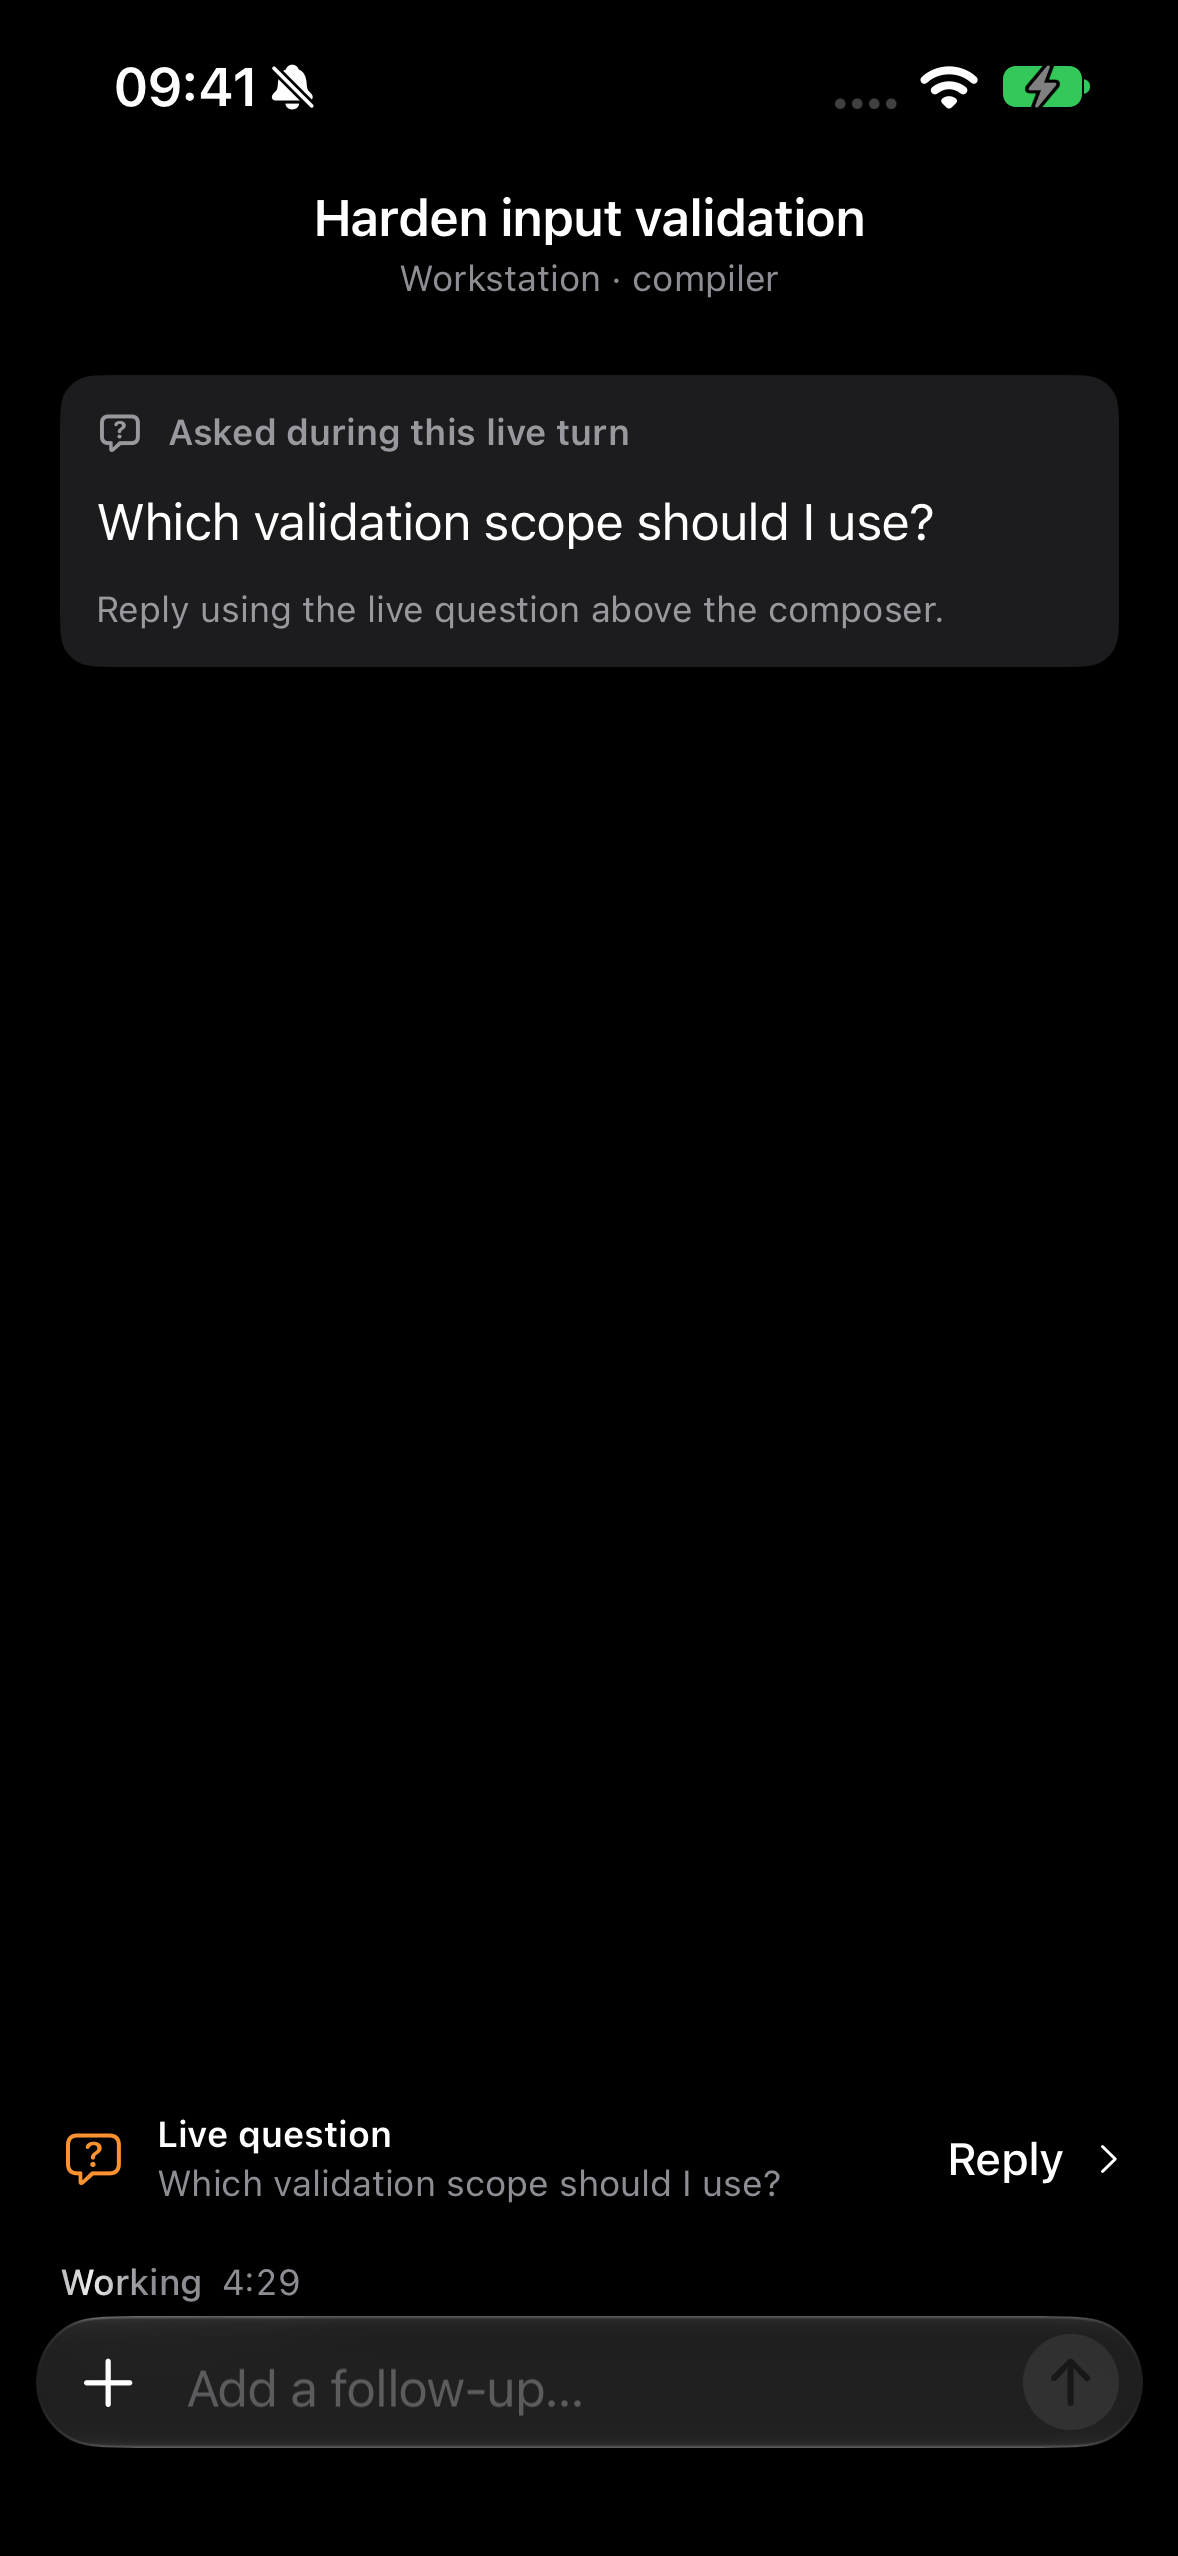
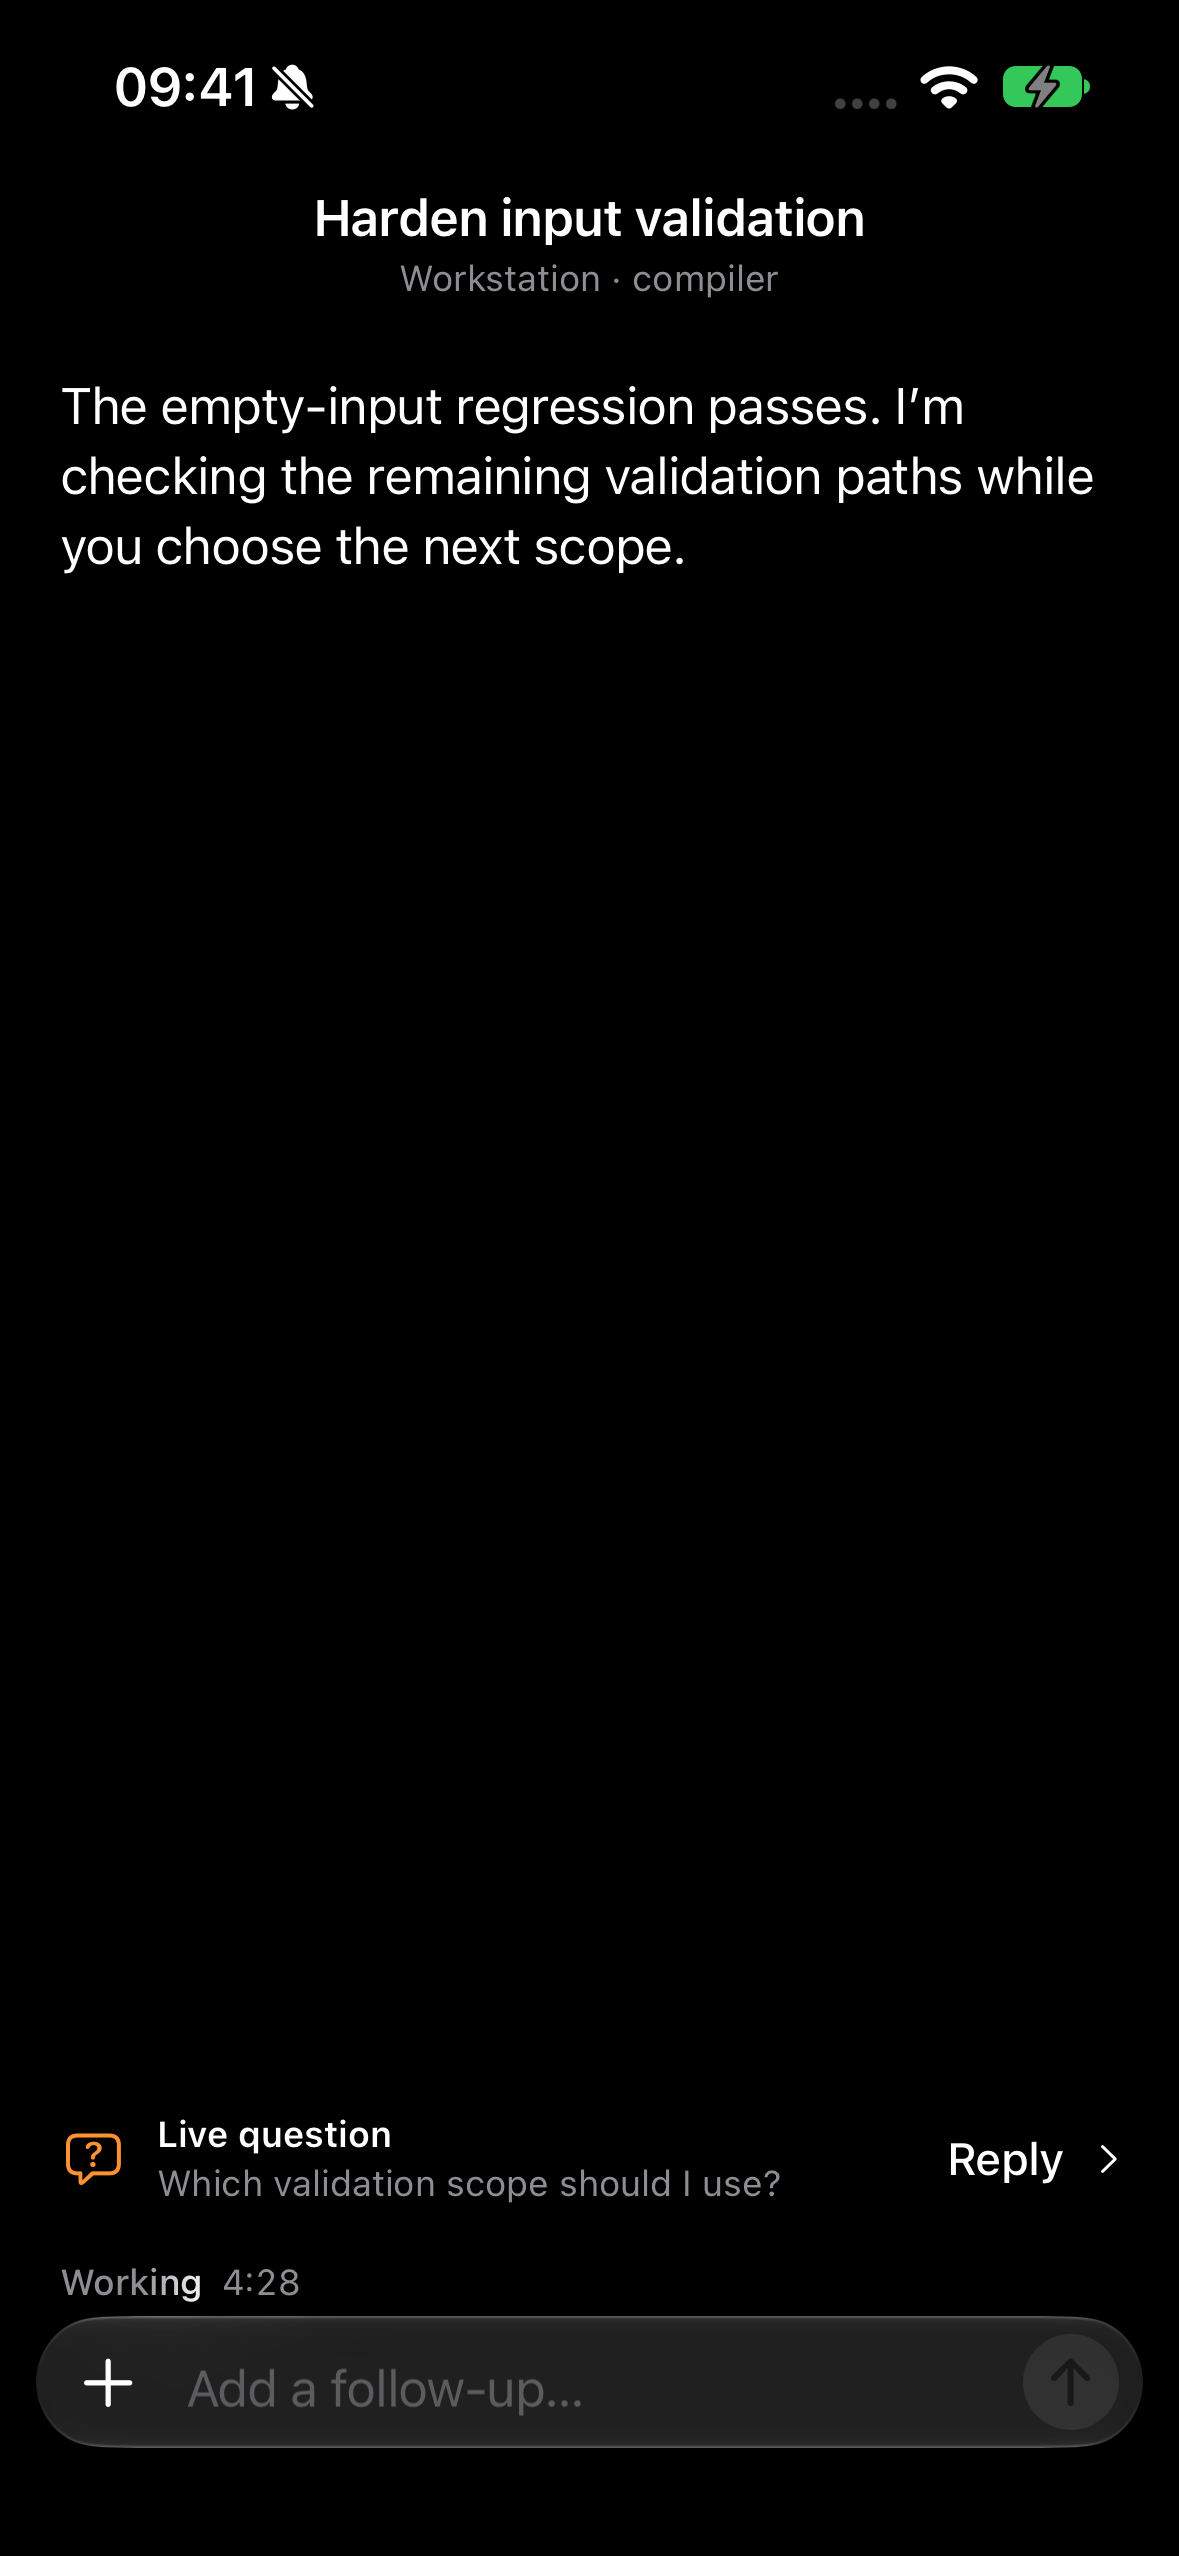
fix(native): give live questions one composer-side home

Changed region(s): [[0.0306, 0.1236, 0.9474, 0.2782], [0.8557, 0.8345, 0.8862, 0.8654], [0.0611, 0.8654, 0.0917, 0.8963]]

diff --git a/native/iOS/SessionView.swift b/native/iOS/SessionView.swift
@@ -37,7 +37,7 @@ struct SessionView: View {
             VStack(spacing: 0) {
                 SessionTranscript(session: session, scrollRequest: $scrollRequest, onEdit: beginQueueEdit) { answer in
                     guard editingQueue == nil else { return }
-                    draft = draft.isEmpty ? answer : draft + "\n\n" + answer
+                    if !answer.isEmpty && draft != answer { draft = draft.isEmpty ? answer : draft + "\n\n" + answer }
                     composing = true
                 }
                 .simultaneousGesture(TapGesture().onEnded { actionsOpen = false })
@@ -249,7 +249,7 @@ struct SessionView: View {
     private func prepareReply(_ answer: String, record: LiveQuestion, session: RelaySession) {
         guard editingQueue == nil, !submitting, machineOnline(session), session.turnId == record.turnID,
               relay.liveQuestions.records.contains(where: { $0.id == record.id }), session.allows("steer") else { return }
-        draft = draft.isEmpty ? answer : draft + "\n\n" + answer
+        if !answer.isEmpty && draft != answer { draft = draft.isEmpty ? answer : draft + "\n\n" + answer }
         steer = true; expectedTurn = record.turnID; questionDetails = false; composing = true
     }
 
@@ -395,7 +395,7 @@ private struct LiveQuestionChoices: View {
         VStack(alignment: .leading, spacing: 10) {
             ChatMarkdown(text: question.title, identifier: "liveQuestion.title.\(index)")
             ForEach(question.options ?? [], id: \.self) { option in
-                Button { prepare(question.title + "\n" + option) } label: {
+                Button { prepare(option) } label: {
                     HStack {
                         Text(option).multilineTextAlignment(.leading)
                         Spacer()
@@ -404,7 +404,7 @@ private struct LiveQuestionChoices: View {
                 }.buttonStyle(.bordered).disabled(disabled)
             }
             Button(String(localized: "Write a reply", bundle: relayLocalizationBundle), systemImage: "square.and.pencil") {
-                prepare(question.title + "\n")
+                prepare("")
             }.frame(minHeight: 44).disabled(disabled)
         }
     }
@@ -470,7 +470,11 @@ private struct SessionTranscript: View {
                                 Label(activity.state == "running" && activity.turnId == session.turnId && session.displayStatus(machine: relay.machines[session.machineId], connected: relay.online) == "WORKING" ? String(localized: "Compacting context", bundle: relayLocalizationBundle) : activity.state == "completed" ? String(localized: "Context compacted", bundle: relayLocalizationBundle) : String(localized: "Context compaction", bundle: relayLocalizationBundle), systemImage: "arrow.trianglehead.2.clockwise.rotate.90")
                                     .font(.caption).foregroundStyle(.secondary).accessibilityIdentifier("context.compaction")
                             } else if group.kind == .message, let activity = group.items.first {
-                                ChatMessageView(activity: activity, images: relay.outbox.images(session: session.id, clientID: activity.clientId), liveQuestion: relay.liveQuestions.records.contains { $0.sessionID == relay.selected && $0.activity.id == activity.id }, onQuestionReply: onQuestionReply).equatable()
+                                // A currently observed question has one interactive home.
+                                // When retired, its original upstream item remains readable here.
+                                if !relay.liveQuestions.records.contains(where: { $0.sessionID == session.id && $0.turnID == session.turnId && $0.activity.id == activity.id }) {
+                                    ChatMessageView(activity: activity, images: relay.outbox.images(session: session.id, clientID: activity.clientId), liveQuestion: false, onQuestionReply: onQuestionReply).equatable()
+                                }
                             } else {
                                 ToolSummaryView(group: group) { path, itemID in tools = ActivitySelection(group: group, path: path, itemID: itemID) }
                             }
@@ -623,20 +627,18 @@ private struct ChatMessageView: View, Equatable {
                         ChatMarkdown(text: activity.text, identifier: "activity." + activity.kind + "." + activity.id)
                     }
                     ForEach(Array(questions.enumerated()), id: \.offset) { index, question in
-                        VStack(alignment: .leading, spacing: 12) {
-                            Label(liveQuestion ? String(localized: "Asked during this live turn", bundle: relayLocalizationBundle) : String(localized: "Question", bundle: relayLocalizationBundle), systemImage: "questionmark.bubble").font(.caption.weight(.semibold)).foregroundStyle(.secondary)
-                            if activity.text == questions.map(\.title).joined(separator: "\n\n") || !activity.text.contains(question.title) {
-                                ChatMarkdown(text: question.title, identifier: "question." + activity.id + ".\(index)")
-                            }
-                            if !liveQuestion {
-                                ForEach(Array((question.options ?? []).enumerated()), id: \.offset) { _, option in
+                        // Conversation content is readable once. Current actions have
+                        // one home in the live-question dock above the composer.
+                        if activity.text == questions.map(\.title).joined(separator: "\n\n") || !activity.text.contains(question.title) {
+                            ChatMarkdown(text: question.title, identifier: "question." + activity.id + ".\(index)")
+                        }
+                        if !liveQuestion {
+                            ForEach(Array((question.options ?? []).enumerated()), id: \.offset) { _, option in
+                                if !activity.text.contains(option) {
                                     Text("• " + option).font(.subheadline).foregroundStyle(.secondary).textSelection(.enabled)
                                 }
-                            } else {
-                                Text(String(localized: "Reply using the live question above the composer.", bundle: relayLocalizationBundle)).font(.caption).foregroundStyle(.secondary)
                             }
-                        }.padding(RelaySpacing.row).frame(maxWidth: .infinity, alignment: .leading)
-                            .background(Color(uiColor: .secondarySystemBackground), in: RoundedRectangle(cornerRadius: 12))
+                        }
                     }
                     if activity.truncated == true { Text(String(localized: "Partial context · see Codex for the full content.", bundle: relayLocalizationBundle)).font(.caption).foregroundStyle(.secondary) }
                 }

diff --git a/native/iOSUITests/LiveAcceptanceTests.swift b/native/iOSUITests/LiveAcceptanceTests.swift
@@ -141,12 +141,16 @@ import XCTest
         let app = XCUIApplication()
         app.launchArguments = ["--product-screenshot", "live-question", "-AppleLanguages", "(en)"]
         app.launch()
-        XCTAssertTrue(app.staticTexts["Asked during this live turn"].waitForExistence(timeout: 10))
+        XCTAssertTrue(app.buttons["session.liveQuestion"].waitForExistence(timeout: 10))
+        XCTAssertFalse(app.staticTexts["Asked during this live turn"].exists)
+        XCTAssertFalse(app.staticTexts["Reply using the live question above the composer."].exists)
         XCTAssertTrue(app.buttons["session.liveQuestion"].exists)
+        XCTAssertFalse(app.staticTexts["question.example-async.0"].exists)
+        XCTAssertFalse(app.staticTexts["activity.agentMessage.example-async"].exists)
         app.buttons["session.liveQuestion"].tap()
         app.buttons.containing(.staticText, identifier: "Full suite").firstMatch.tap()
         let composer = app.descendants(matching: .any).matching(identifier: "composer.text").firstMatch
-        XCTAssertEqual(composer.value as? String, "Which validation scope should I use?\nFull suite")
+        XCTAssertEqual(composer.value as? String, "Full suite")
         XCTAssertEqual(app.buttons["composer.send"].label, "Send Steer")
         XCTAssertFalse(app.buttons["Respond"].exists)
         // Preparing text never sends or resolves a request. History has no live action.
@@ -193,7 +197,8 @@ import XCTest
         XCTAssertTrue(banner.waitForExistence(timeout: 5))
         let capture = XCTAttachment(screenshot: XCUIScreen.main.screenshot()); capture.name = "Real Codex live question and local banner"; capture.lifetime = .keepAlways; add(capture)
         banner.tap() // Exercise the same safe deep link as a real notification tap.
-        XCTAssertTrue(app.staticTexts["Asked during this live turn"].waitForExistence(timeout: 15))
+        XCTAssertTrue(app.buttons["session.liveQuestion"].waitForExistence(timeout: 15))
+        app.buttons["session.liveQuestion"].tap()
         let option = app.buttons.containing(.staticText, identifier: "Focused").firstMatch
         XCTAssertTrue(option.waitForExistence(timeout: 10)); option.tap()
         let composer = app.descendants(matching: .any).matching(identifier: "composer.text").firstMatch

diff --git a/native/iOS/Views.swift b/native/iOS/Views.swift
@@ -529,7 +529,10 @@ struct LastKnownSession: View {
             relay.requests = [:]; relay.chat = RecentChat()
             let event: RelayEvent = decode(["kind": "activity", "session_id": "workstation~build", "turn_id": "example-turn", "activity": ["id": "example-async", "kind": "agentMessage", "text": "Which validation scope should I use?", "questions": [["title": "Which validation scope should I use?", "options": ["Full suite", "Focused checks"]]]]])
             relay.chat.apply(event)
-            if surface != "history-question" { relay.liveQuestions.observe(event, activeTurn: "example-turn", current: true) }
+            if surface != "history-question" {
+                relay.liveQuestions.observe(event, activeTurn: "example-turn", current: true)
+                relay.chat.put(Activity(id: "example-question-progress", kind: "agentMessage", text: "The empty-input regression passes. I’m checking the remaining validation paths while you choose the next scope."))
+            }
         }
         if surface == "question-reply" {
             relay.requests = [:]; relay.chat = RecentChat()

diff --git a/docs/development/validation/m2-validation.md b/docs/development/validation/m2-validation.md
@@ -471,8 +471,10 @@ and the Xcode 26.6 compatibility correction `2c1e830`.
   The disposable thread was archived afterward. No production thread was used.
 - Expanded activity rows replace the collapsed preview, identify server/tool, and
   open only the selected operation. File previews share a compact row. A live
-  question remains reachable above the composer and prepares an explicit Steer
-  draft. Historical questions never regain actionability.
+  question has one current presentation above the composer, with full options in
+  its reply sheet. It is not repeated in the transcript while current; afterward
+  its original history item remains readable. Selecting an option prepares only
+  the answer as an explicit Steer draft. Historical questions never regain actionability.
 - The Codex adapter projects valid structured question replies into question and
   answer content, preserving upstream item/client IDs. It does not expose the
   transport XML/JSON wrapper or infer pending state. Markdown uses a restrained

diff --git a/docs/status.md b/docs/status.md
@@ -38,7 +38,9 @@ Relay never infers pending state from history or from a missing visible reply.
 
 A live question observed on the current connection appears in a separate
 **Live Questions** section of Needs You and contributes to the connected app's
-attention badge. It is an ephemeral hint, not a pending RPC. It stays reachable above the session composer. Reply prepares an explicit
+attention badge. It is an ephemeral hint, not a pending RPC. While current, its only presentation is above the session composer and in its
+reply sheet. After retirement, the original question remains readable in history.
+Reply prepares only the answer as an explicit
 current-turn Steer draft for review; it never sends automatically. It cannot dismiss
 another client's question. Turn boundaries, user input, local submission,
 disconnect or epoch changes retire the hint. Navigation alone does not.
